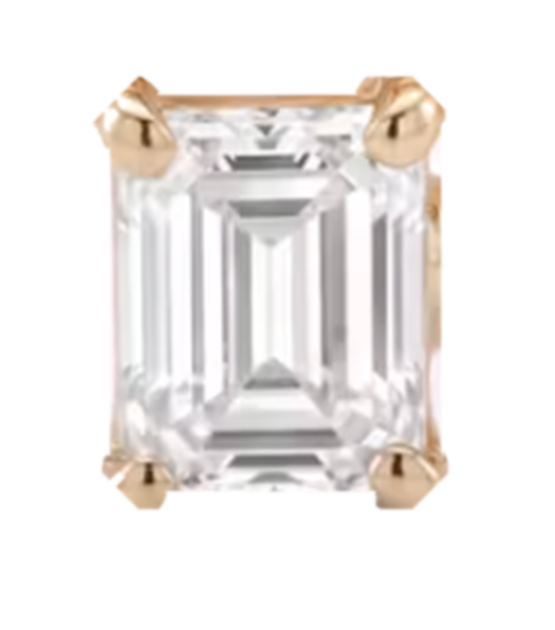
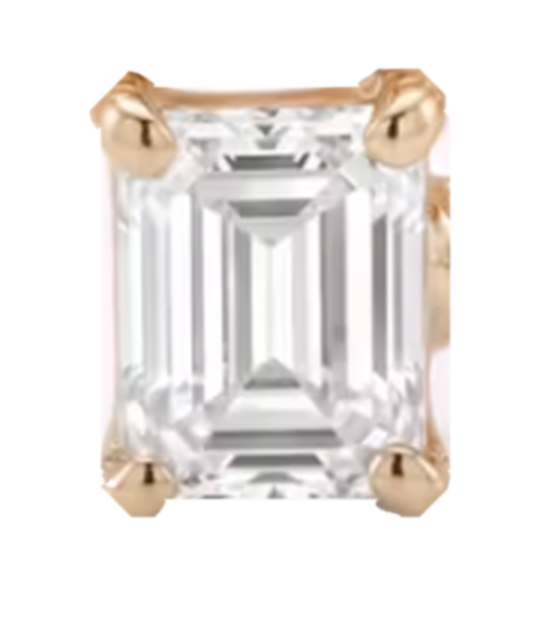
Heart caps the bottom wire's end (up and left); emerald outline widened so no edge is clipped

diff --git a/index.html b/index.html
@@ -1531,10 +1531,10 @@ const SPRITES = {
   'pear-h':   {src:'img/studio/bottom/pear-h.png',    bw:316, bh:195, norm:0.88, pow:3, masked:true},   // alpha = the stone's real outline
   'oval-h':   {src:'img/studio/bottom/oval-h.png',    bw:300, bh:224, norm:0.93, pow:3, masked:true},
   // cuts not yet photographed on her ring: earlier studio cut-outs, scaled up to her pear's footprint
-  'emerald-v':{src:'img/studio/bottom/emerald-v.png', bw:330, bh:395, norm:0.45, masked:true, dy:78},   // dy: upright cuts hang a little lower off the wire
+  'emerald-v':{src:'img/studio/bottom/emerald-v.png', bw:346, bh:410, norm:0.45, masked:true, dy:78},   // dy: upright cuts hang a little lower off the wire
   'oval-v':   {src:'img/studio/bottom/oval-v.png',    bw:140, bh:192, norm:1.4},
   'pear-v':   {src:'img/studio/bottom/pear-v.png',    bw:150, bh:200, norm:1.32},
-  'heart-v':  {src:'img/studio/bottom/heart-v.png',   bw:385, bh:370, norm:0.46, masked:true, dy:67},
+  'heart-v':  {src:'img/studio/bottom/heart-v.png',   bw:385, bh:370, norm:0.46, masked:true, dx:-45, dy:25},   // up and left: it caps the wire's end
 };
 const spriteImgs = {};
 function spriteFor(shape, turn){
@@ -1786,7 +1786,7 @@ function renderPhoto(){
         const yw = wireYAt(cv, cx, yPrev, 40*k);
         const cy = (yw != null && yAtX0 != null) ? y0 + (yw - yAtX0) : y0;
         if (yw != null) yPrev = yw;
-        paintSprite(ctx, sprites[i], cx, cy + (sprites[i].rot ? 0 : (sprites[i].dy || 0)) * k, scales[i], bs.month);
+        paintSprite(ctx, sprites[i], cx + (sprites[i].rot ? 0 : (sprites[i].dx || 0)) * k, cy + (sprites[i].rot ? 0 : (sprites[i].dy || 0)) * k, scales[i], bs.month);
         x += widths[i] + gap;
       });
     }
@@ -1834,7 +1834,7 @@ function renderOnPlain(ctx, cv, k, n, P, ref){
     const yw = wireYAt(ref, cx, yPrev, 40*k);
     const cy = (yw != null && yAtX0 != null) ? y0 + (yw - yAtX0) : y0;
     if (yw != null) yPrev = yw;
-    paintSprite(ctx, sprites[i], cx, cy + (sprites[i].rot ? 0 : (sprites[i].dy || 0)) * k, scales[i], bs.month);
+    paintSprite(ctx, sprites[i], cx + (sprites[i].rot ? 0 : (sprites[i].dx || 0)) * k, cy + (sprites[i].rot ? 0 : (sprites[i].dy || 0)) * k, scales[i], bs.month);
     x += widths[i] + gap;
   });
 }
